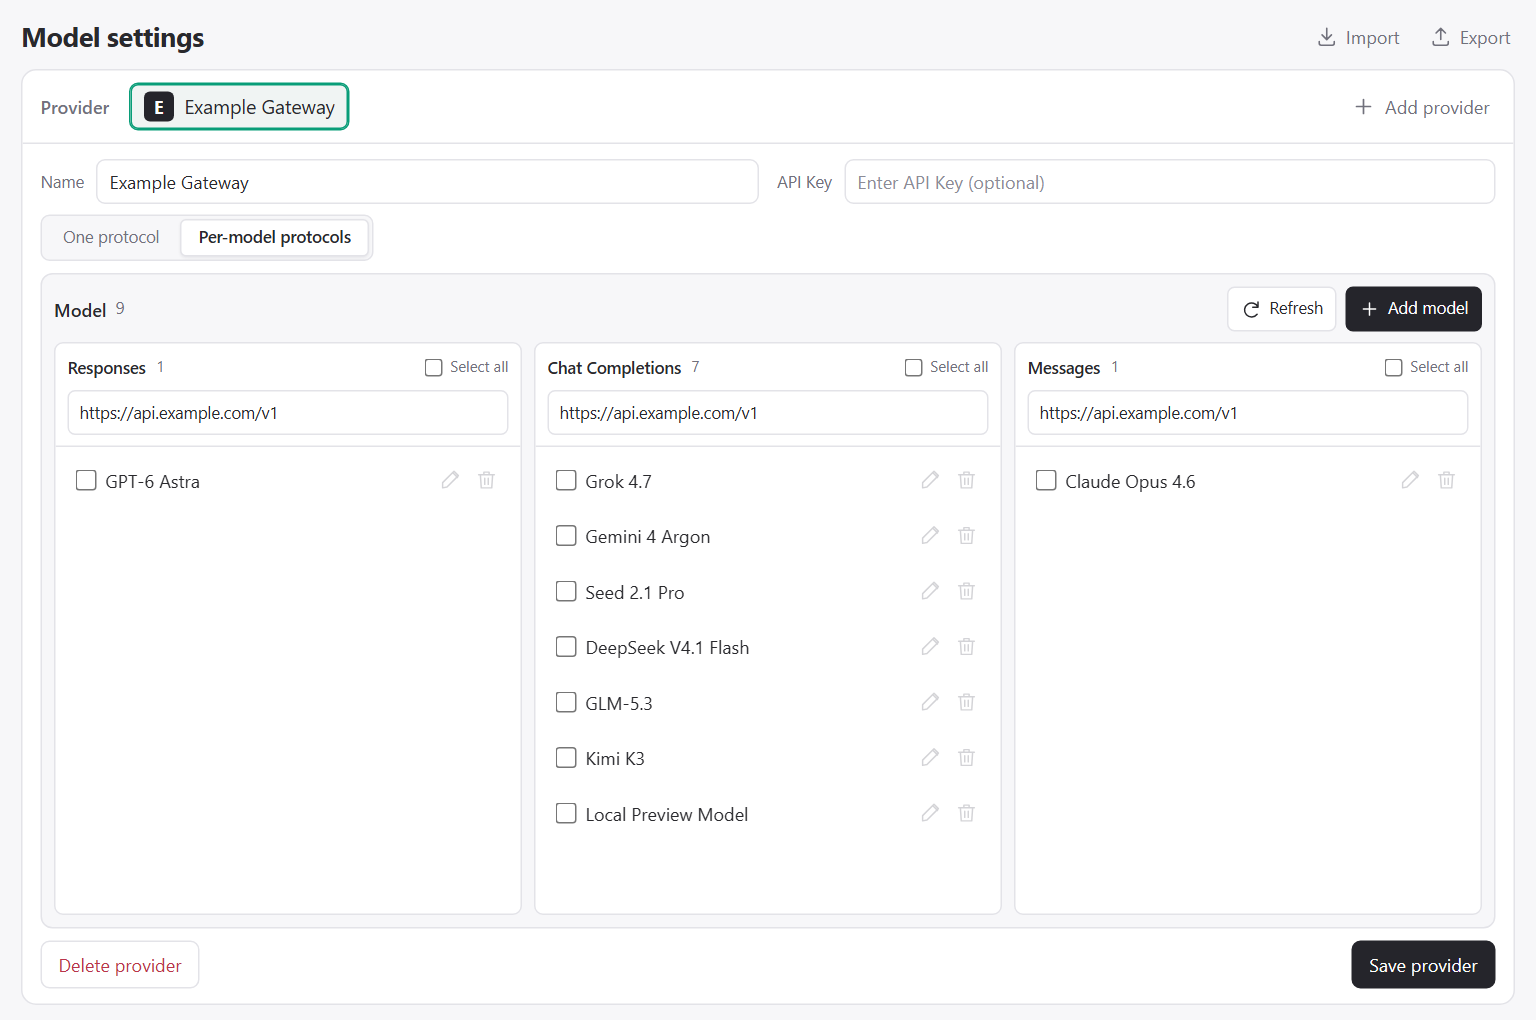
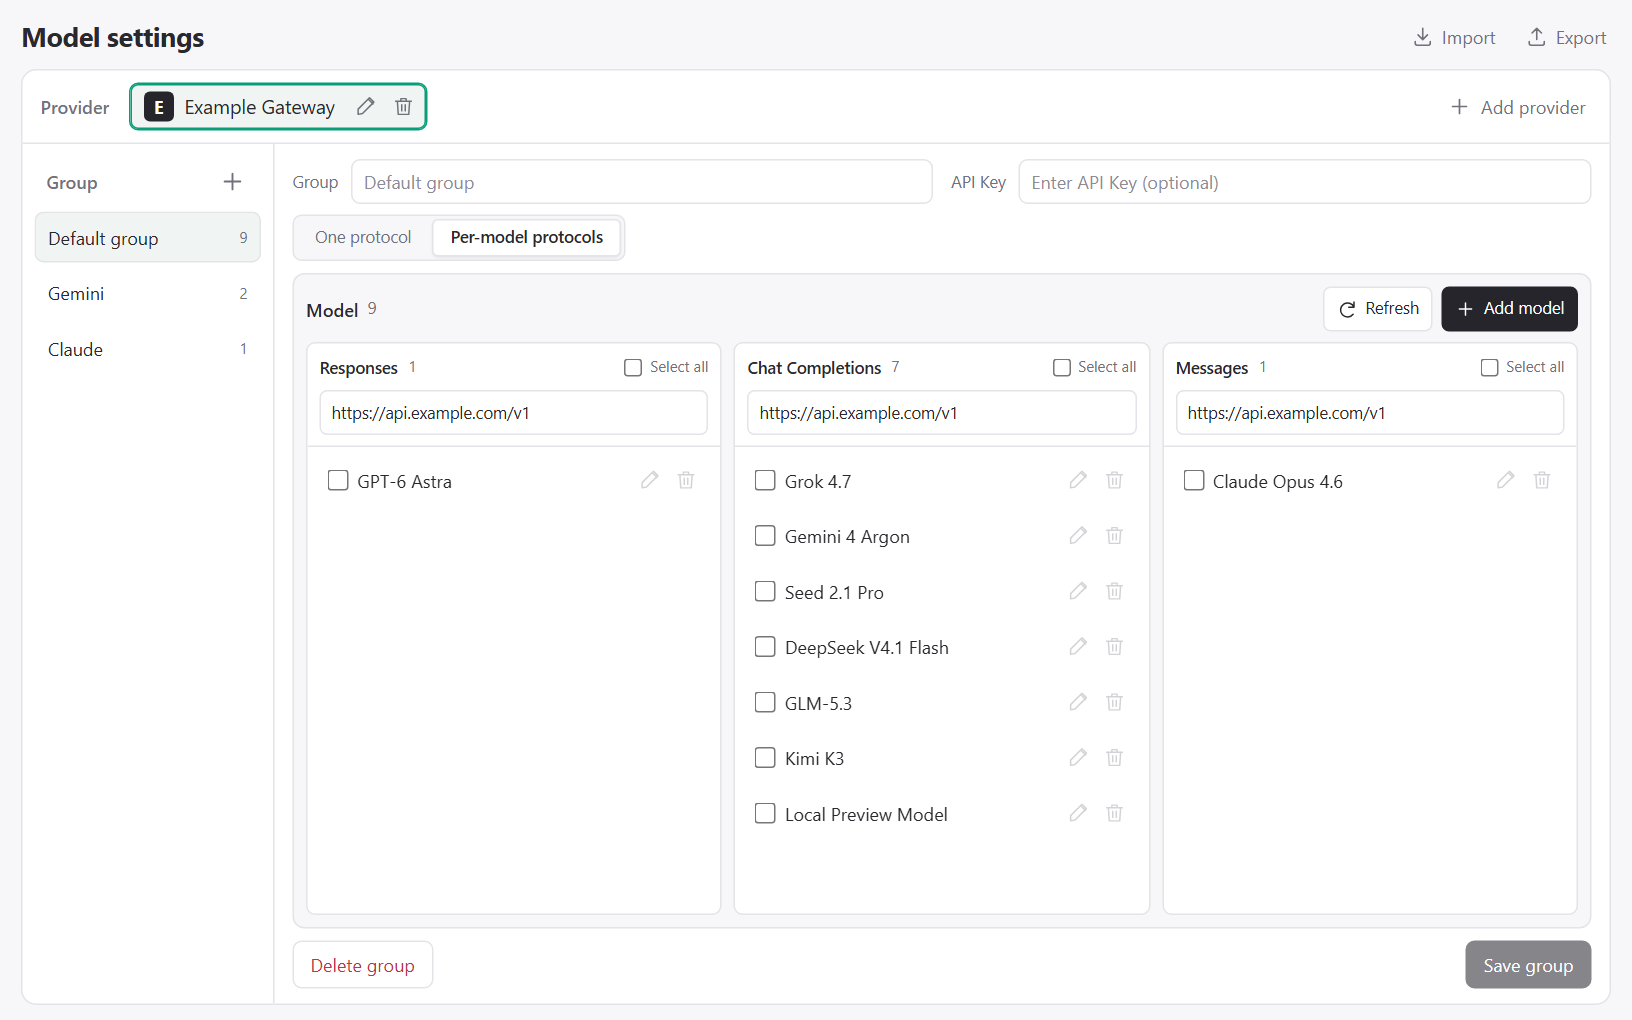
Release BYOK Studio 1.4.0
Reorganize bilingual READMEs and package descriptions, refresh high-DPI configuration screenshots, and bump version to 1.4.0.

diff --git a/README.md b/README.md
@@ -2,46 +2,45 @@
 
 English | [简体中文](README.zh-CN.md)
 
-A visual editor for Copilot's **Custom Endpoint** configuration in `chatLanguageModels.json`.
+A visual editor for Copilot's **Custom Endpoint** providers, key groups, and model presets in `chatLanguageModels.json`.
 
 ![Configuration page](docs/images/configuration-en.png)
 
 ## Configuration
 
-- Provider names, with an independent API key, endpoint URLs, and model list for each group.
-- **Chat Completions**, **Responses**, or **Messages** protocol settings, shared by all models or assigned per model.
-- Model lists, display names, Context, Output, capabilities, and reasoning defaults.
+- **Providers & key groups** — Organize multiple groups under one provider, each with its own API key, endpoint URLs, protocol mode, and model list.
+- **Protocol routing** — Configure **Chat Completions**, **Responses**, or **Messages**, either shared across a group or assigned per model.
+- **Model presets & parameters** — Sync presets online from [models.dev](https://models.dev) with local caching, and customize display names, Context, Output, capabilities, and reasoning levels in **Model settings** ([parameter sources and matching rules](docs/SOURCES.md)).
 
-Model presets are fetched online from [models.dev](https://models.dev) and cached locally by the extension. Adjust parameters in **Model settings**. [Parameter sources and matching rules](docs/SOURCES.md).
-
-Context and Output are written directly as `contextWindow` and `maxOutputTokens` in the official JSON. Saving a group removes its old `maxInputTokens`, `zeroDataRetentionEnabled`, and `statefulResponses` model fields. Groups outside that operation remain unchanged.
+Context and Output map directly to `contextWindow` and `maxOutputTokens` in `chatLanguageModels.json`. Saving a group strips retired `maxInputTokens`, `zeroDataRetentionEnabled`, and `statefulResponses` fields from that group while leaving other groups untouched.
 
 ## Usage
 
 Requires **VS Code 1.145+** and **GitHub Copilot Chat**.
 
-1. Run **BYOK Studio: Manage Models** from the Command Palette, or click the settings button at the bottom-right of Chat input.
-2. Add a provider, enter its URL and API key, and choose **One protocol** or **Per-model protocols**. **Add group** creates independent keys, URLs, and models under the same provider.
-3. Refresh or manually add models and adjust their settings.
-4. Click **Save group** to write the native configuration and refresh Copilot Chat's model list. Select the corresponding **Custom Endpoint** model in Copilot Chat.
+1. Click the settings icon at the bottom-right of the Chat input box, or run **BYOK Studio: Manage Models** from the Command Palette.
+2. Add a provider, use **Add group** (`+`) on the left when separating multiple API keys or endpoints, and choose **One protocol** or **Per-model protocols**.
+3. Click **Refresh** to discover models or **Add model** to configure one manually, then adjust model settings as needed.
+4. Click **Save group** (or press `Ctrl+S` / `Cmd+S`) to update `chatLanguageModels.json` and refresh Copilot Chat's model picker.
 
-Groups are created inline without a separate dialog. Switching providers or groups preserves unsaved drafts. Click the edit icon beside the active provider tab to rename it inline; Enter finishes editing and Esc cancels. Click **Save group** to apply the name change. Edit group names in the right-hand form. The tab's delete icon removes the entire provider after confirmation, including all its groups, models, saved API keys, and unsaved drafts; **Delete group** in the right-hand form removes only the current group.
+### Groups & native mapping
 
-The extension activates on command and reads `customendpoint` groups directly from `chatLanguageModels.json`. Starting VS Code, opening the panel, and reading configuration never write data. Only explicitly saving, importing, or deleting groups updates their corresponding official configuration groups.
+The extension activates on command and reads `customendpoint` entries directly from `chatLanguageModels.json`. Starting VS Code, opening the panel, or reading configuration never writes to disk; only explicit save, import, or delete actions modify the corresponding entries.
 
-Each Studio group becomes a native `customendpoint` group. Named groups appear as **Provider · Group**; the default group keeps the provider name. Renaming a provider or group changes native model identifiers, so VS Code treats the models as new and their selection, hidden, and pinned states must be restored. Renaming a provider updates all its groups together.
+Each Studio group maps to one native `customendpoint` group: the default group keeps the provider name, and named groups appear as **Provider · Group**. Use the edit and delete icons on the active provider tab to rename a provider inline or remove the provider with all its groups and saved keys; **Delete group** removes only the current group. Switching providers or groups preserves unsaved drafts, model selections, and scroll positions. Because renaming a provider or group changes native model IDs, VS Code treats renamed models as new entries (current selection, hidden, and pinned states need to be set again).
 
-**One protocol** mode uses a single protocol and URL for all models. **Per-model protocols** mode has no provider default: GPT / OpenAI models (including Codex) go to **Responses**, Claude models go to **Messages**, and other models go to **Chat Completions**. Change an individual model's **Request protocol**, or select models and move them to another protocol column. Switching modes preserves manual assignments.
+### Protocols & model management
 
-**Refresh** replaces the model list and resets protocol assignments using these model family rules. Matching IDs keep their names, token overrides, and reasoning settings; endpoint URLs and the API key are retained. Models follow discovery order. Failed refreshes leave the draft unchanged.
+- **One protocol** applies a single protocol and Base URL to every model in the group.
+- **Per-model protocols** routes GPT / OpenAI (including Codex) to **Responses**, Claude to **Messages**, and remaining models to **Chat Completions** by default. Reassign protocols individually in **Model settings**, or select models and move them across columns; switching modes preserves manual assignments.
+- **Refresh** replaces the group's model list in discovery order and resets protocol routing by model family while keeping custom names, token overrides, and reasoning settings for matching IDs. Failed refreshes leave the current draft intact.
+- Selecting models reveals batch **Delete** next to **Refresh** (with **Select all** on unified lists and protocol columns). Model deletions stay in the draft until the group is saved.
 
-Selecting models shows **Delete** immediately left of **Refresh**; deselecting all models hides it. **Select all** works on the unified list or an individual protocol column. Model deletion changes the draft until the group is saved. Completed saves show a green confirmation; failures show an error.
+### Import, export & official JSON
 
-**Save group** is enabled only when the current configuration is valid and has unsaved changes. Ctrl+S (Cmd+S on macOS) also saves. Duplicate submissions are blocked during saving, and failures retain the draft for retry. Switching groups preserves model selection and scroll position. Repeating the same save does not rewrite configuration or create another key reference.
-
-Use **Export** to select providers (all selected by default), then copy them to the clipboard or save a JSON file. Saved API keys are always included. **Import** reads from the clipboard or a JSON file and saves the selected providers; matching IDs or names update existing providers, and groups match by ID or provider-scoped name. Version 2 exports contain nested groups; version 1 exports and native configuration arrays remain supported. Close either dialog using its top-right close button or Esc. Transfer configurations between devices with manual import and export.
-
-Run **BYOK Studio: Open Official Model Configuration** to inspect the generated JSON. Official configuration uses protected key references; exported transfer JSON contains plaintext API keys. Native VS Code key updates replace key references. If a native operation removes Studio metadata, the group remains readable as a standalone provider; re-enter its API key in Studio and save if needed.
+- **Export** packages selected providers (all selected by default) with nested groups and saved plaintext API keys to the clipboard or a JSON file.
+- **Import** reads from the clipboard or a JSON file and updates matching providers and groups by ID or name. Version 2 bundles, legacy version 1 exports, and raw `customendpoint` arrays are all supported.
+- **BYOK Studio: Open Official Model Configuration** opens the underlying JSON, where credentials are stored as protected key references. If a native VS Code edit replaces a key reference or strips Studio metadata, the group remains readable as a standalone provider—re-enter its API key in Studio and save if needed.
 
 <details>
 <summary>Configuration example</summary>
@@ -49,25 +48,24 @@ Run **BYOK Studio: Open Official Model Configuration** to inspect the generated 
 ```json
 [
   {
-    "name": "Example Gateway",
+    "name": "Example Gateway · Gemini",
     "vendor": "customendpoint",
-    "byokStudioId": "demo-group",
+    "byokStudioId": "demo-group-gemini",
     "byokStudioProviderId": "demo-provider",
     "byokStudioProviderName": "Example Gateway",
-    "byokStudioGroupName": "",
+    "byokStudioGroupName": "Gemini",
     "models": [
       {
-        "id": "kimi-k3",
-        "name": "Kimi K3",
-        "url": "https://chat.example.com/v1/chat/completions",
+        "id": "gemini-4-argon",
+        "name": "Gemini 4 Argon",
+        "url": "https://api.example.com/v1/chat/completions",
         "apiType": "chat-completions",
         "toolCalling": true,
         "vision": true,
         "contextWindow": 1048576,
-        "maxOutputTokens": 131072,
+        "maxOutputTokens": 65536,
         "thinking": true,
-        "supportsReasoningEffort": ["low", "high", "max"],
-        "modelOptions": { "top_p": 0.95 }
+        "supportsReasoningEffort": ["low", "medium", "high"]
       }
     ]
   }
@@ -78,12 +76,12 @@ Run **BYOK Studio: Open Official Model Configuration** to inspect the generated 
 
 ## Development
 
-Run `node scripts/preview-ui.cjs` to preview the UI with data stored only in memory.
+Run `node scripts/preview-ui.cjs` to preview the UI with in-memory storage.
 
-- `src/` — extension and configuration logic
-- `resources/` — webview and shared modules
-- `scripts/` — local UI preview harness
-- `docs/` — screenshots and parameter sources
+- `src/` — extension host, JSONC persistence, discovery, and catalog sync
+- `resources/` — webview UI, localization, and shared routing logic
+- `scripts/` — local UI preview harness and service regression tests
+- `docs/` — screenshots and model parameter documentation
 
 ```powershell
 npm ci

diff --git a/README.zh-CN.md b/README.zh-CN.md
@@ -2,46 +2,45 @@
 
 [English](README.md) | 简体中文
 
-用于编辑 `chatLanguageModels.json` 中 Copilot **Custom Endpoint** 配置的可视化管理器。
+用于编辑 `chatLanguageModels.json` 中 Copilot **Custom Endpoint** 供应商、多密钥分组与模型预设的可视化管理器。
 
 ![配置页面](docs/images/configuration-zh-CN.png)
 
 ## 配置内容
 
-- 供应商名称，以及各分组独立的 API Key、端点地址和模型列表。
-- **Chat Completions**、**Responses** 或 **Messages** 协议配置，可统一设置或按模型分配。
-- 模型列表、显示名称、Context、Output、能力声明和推理档位。
+- **供应商与多分组** — 同一供应商下可创建多个分组，各自维护独立的 API Key、端点地址、协议模式和模型列表。
+- **协议路由** — 支持 **Chat Completions**、**Responses** 和 **Messages**，可按分组统一配置或按模型独立分配。
+- **模型预设与参数** — 在线同步 [models.dev](https://models.dev) 预设并在本地缓存，可在 **模型设置** 中调整显示名称、Context、Output、能力声明与推理档位（[参数来源与匹配规则](docs/SOURCES.md)）。
 
-模型预设在线同步自 [models.dev](https://models.dev) 并在本地缓存。在 **模型设置** 中调整参数。[参数来源与匹配规则](docs/SOURCES.md)。
-
-Context 和 Output 直接写入官方 JSON 的 `contextWindow` 和 `maxOutputTokens`。保存分组时会清除该分组旧模型中的 `maxInputTokens`、`zeroDataRetentionEnabled` 和 `statefulResponses`；未操作的分组保持不变。
+Context 和 Output 直接写入官方 JSON 的 `contextWindow` 和 `maxOutputTokens`。保存分组时会清理该分组旧模型中的 `maxInputTokens`、`zeroDataRetentionEnabled` 和 `statefulResponses`；未操作的分组保持不变。
 
 ## 使用
 
 需要 **VS Code 1.145+** 和 **GitHub Copilot Chat**。
 
-1. 在命令面板执行 **BYOK Studio: 管理模型**，或点击 Chat 输入框右下角的设置按钮。
-2. 添加供应商，填写地址、API Key，并选择 **统一协议** 或 **区分协议**。使用左侧 **添加分组** 可在同一供应商内配置独立的 Key、地址和模型。
-3. 刷新或手动添加模型，调整设置。
-4. 点击 **保存分组** 写入原生配置并刷新 Copilot Chat 的模型列表，然后选择对应的 **Custom Endpoint** 模型。
+1. 点击 Chat 输入框右下角的设置按钮，或在命令面板执行 **BYOK Studio: 管理模型**。
+2. 添加供应商；需要拆分多个 API Key 或端点地址时，点击左侧 **添加分组**（`+`），并选择 **统一协议** 或 **区分协议**。
+3. 点击 **刷新** 自动拉取模型或点击 **添加模型** 手动录入，按需调整模型参数。
+4. 点击 **保存分组**（或按 `Ctrl+S` / `Cmd+S`）写入 `chatLanguageModels.json` 并刷新 Copilot Chat 模型列表。
 
-分组直接在页面中创建，不弹出填写窗口；切换供应商或分组不会丢失未保存草稿。点击当前供应商标签旁的编辑图标，在标签内修改名称；Enter 完成编辑，Esc 取消，点击 **保存分组** 后生效。分组名称仍在右侧表单编辑。标签旁的删除图标用于删除整个供应商，确认后会同时删除其全部分组、模型、已保存的 API Key 和未保存草稿；右侧 **删除分组** 仅删除当前分组。
+### 分组与原生映射
 
-扩展按命令激活，直接读取 `chatLanguageModels.json` 中的 `customendpoint` 分组。启动 VS Code、打开面板或读取配置均不写入数据。只有显式保存、导入或删除分组时才修改对应分组的官方配置。
+扩展按命令激活，直接读取 `chatLanguageModels.json` 中的 `customendpoint` 分组。启动 VS Code、打开面板或读取配置均不写入磁盘；只有显式保存、导入或删除操作才会修改对应配置。
 
-每个 Studio 分组对应一个原生 `customendpoint` 分组。命名分组显示为 **供应商 · 分组**，默认分组沿用供应商名称。修改供应商或分组名称会改变原生模型标识；VS Code 会将模型视为新模型，需要重新设置当前选择、隐藏和固定状态。供应商重命名会同步更新其所有分组。
+每个 Studio 分组对应一个原生 `customendpoint` 分组：默认分组沿用供应商名称，命名分组显示为 **供应商 · 分组**。通过当前供应商标签旁的编辑与删除图标可内联重命名供应商，或连同其全部分组与已存密钥一并删除；右侧 **删除分组** 仅移除当前分组。切换供应商或分组会保留未保存草稿、模型勾选与滚动位置。由于重命名供应商或分组会改变原生模型标识，VS Code 会将其视为新模型，当前模型选择、隐藏与固定状态需重新设置。
 
-**统一协议** 模式下所有模型使用同一个协议和地址。**区分协议** 模式下没有供应商默认协议：GPT / OpenAI 系列（含 Codex）归入 **Responses**，Claude 归入 **Messages**，其余模型归入 **Chat Completions**。可在模型设置的 **请求协议** 中单独修改，或勾选模型后批量移动到其他协议列。切换模式会保留已有的手动分配。
+### 协议分配与模型管理
 
-**刷新** 会替换模型列表，并将协议分配重置为上述模型系列规则。同 ID 模型保留名称、Token 覆盖和推理设置；端点地址及 API Key 保持不变，模型按发现顺序排列。刷新失败不会改变草稿。
+- **统一协议** 下分组内所有模型共用同一协议与 Base URL。
+- **区分协议** 下默认按模型系列归类：GPT / OpenAI 系列（含 Codex）归入 **Responses**，Claude 归入 **Messages**，其余归入 **Chat Completions**。可在 **模型设置** 中单独调整，或勾选模型后批量移动到其他协议列；切换模式保留已有的手动分配。
+- **刷新** 按发现顺序替换当前分组的模型列表并按模型系列重置协议分配，同时保留同 ID 模型的自定义名称、Token 覆盖和推理设置；刷新失败不会改动草稿。
+- 勾选模型后，**刷新** 左侧出现批量 **删除**（支持统一列表或单协议列 **全选**），删除操作在保存分组后生效。
 
-勾选模型后，**刷新** 左侧显示 **删除**。取消全部勾选后隐藏；可使用统一列表或协议列的 **全选**。模型删除只修改草稿，保存分组后生效。保存完成后显示绿色提示，失败时显示错误。
+### 导入、导出与官方配置
 
-**保存分组** 仅在当前配置有效且有未保存修改时启用，也可使用 Ctrl+S（macOS 为 Cmd+S）。保存期间阻止重复提交，失败后保留草稿以便重试；切换分组保留模型勾选和滚动位置。重复保存相同配置不会再次写入或创建密钥引用。
-
-点击 **导出**，选择供应商（默认全选），复制到剪贴板或保存为 JSON 文件，始终包含已保存的 API Key。点击 **导入**，从剪贴板或 JSON 文件读取并选择供应商后保存；同 ID 或同名供应商会更新覆盖，分组按 ID 或供应商内名称匹配。版本 2 导出包含嵌套分组，同时兼容版本 1 导出和原生配置数组。两个弹窗均可通过右上角关闭按钮或 Esc 退出。跨设备迁移通过手动导入、导出完成。
-
-命令 **BYOK Studio: 打开官方模型配置** 可查看写入的 JSON。官方配置使用受保护的密钥引用；导出的迁移 JSON 包含明文 API Key。VS Code 原生的密钥更新会更换密钥引用；若原生操作移除了扩展元数据，分组仍可作为独立供应商读取，必要时在 Studio 中重新填写 API Key 并保存。
+- **导出** 按供应商打包（默认全选）嵌套分组与已保存的明文 API Key，可复制到剪贴板或保存为 JSON 文件。
+- **导入** 支持从剪贴板或 JSON 文件读取，按 ID 或名称匹配更新供应商与分组，兼容 v2 多分组导出、旧版 v1 导出及原生 `customendpoint` 数组。
+- 执行 **BYOK Studio: 打开官方模型配置** 可查看生成的 JSON（官方配置中仅写入受保护的密钥引用）。若在 VS Code 原生界面更新密钥或移除了扩展元数据，该分组仍可作为独立供应商读取，必要时在 Studio 中重新填写 API Key 保存即可。
 
 <details>
 <summary>配置示例</summary>
@@ -49,25 +48,24 @@ Context 和 Output 直接写入官方 JSON 的 `contextWindow` 和 `maxOutputTok
 ```json
 [
   {
-    "name": "Example Gateway",
+    "name": "Example Gateway · Gemini",
     "vendor": "customendpoint",
-    "byokStudioId": "demo-group",
+    "byokStudioId": "demo-group-gemini",
     "byokStudioProviderId": "demo-provider",
     "byokStudioProviderName": "Example Gateway",
-    "byokStudioGroupName": "",
+    "byokStudioGroupName": "Gemini",
     "models": [
       {
-        "id": "kimi-k3",
-        "name": "Kimi K3",
-        "url": "https://chat.example.com/v1/chat/completions",
+        "id": "gemini-4-argon",
+        "name": "Gemini 4 Argon",
+        "url": "https://api.example.com/v1/chat/completions",
         "apiType": "chat-completions",
         "toolCalling": true,
         "vision": true,
         "contextWindow": 1048576,
-        "maxOutputTokens": 131072,
+        "maxOutputTokens": 65536,
         "thinking": true,
-        "supportsReasoningEffort": ["low", "high", "max"],
-        "modelOptions": { "top_p": 0.95 }
+        "supportsReasoningEffort": ["low", "medium", "high"]
       }
     ]
   }
@@ -80,10 +78,10 @@ Context 和 Output 直接写入官方 JSON 的 `contextWindow` 和 `maxOutputTok
 
 运行 `node scripts/preview-ui.cjs` 可预览界面，数据仅保存在内存。
 
-- `src/` — 扩展与配置逻辑
-- `resources/` — 页面与共享模块
-- `scripts/` — 本地界面预览工具
-- `docs/` — 截图与参数来源
+- `src/` — 扩展宿主、JSONC 持久化、模型发现与目录同步
+- `resources/` — Webview 界面、本地化与共享路由逻辑
+- `scripts/` — 本地界面预览与服务层回归测试
+- `docs/` — 界面截图与参数来源说明
 
 ```powershell
 npm ci

diff --git a/docs/SOURCES.md b/docs/SOURCES.md
@@ -7,9 +7,9 @@ Model presets are fetched online at runtime from [models.dev](https://models.dev
 
 ## Online sync & caching
 
-When opening BYOK Studio or refreshing provider models, the extension loads its local cache (`models-catalog.json` in VS Code `globalStorageUri`) and refreshes from `https://models.dev/catalog.json` when the cache is missing or expired (6 hours on open, 15 minutes on manual model refresh). If `models.dev` is temporarily unreachable, the extension falls back to the cached snapshot or conservative default parameters so provider configuration continues to work offline.
+When opening BYOK Studio or refreshing group models, the extension loads its local cache (`models-catalog.json` in VS Code `globalStorageUri`) and refreshes from `https://models.dev/catalog.json` when the cache is missing or expired (6 hours on open, 15 minutes on manual model refresh). If `models.dev` is temporarily unreachable, the extension falls back to the cached snapshot or conservative default parameters so group configuration continues to work offline.
 
-Provider configurations live directly in `chatLanguageModels.json`, while API keys for model discovery and manual export are stored in VS Code's `SecretStorage`.
+Each group compiles to a `customendpoint` entry in `chatLanguageModels.json`, while per-group API keys for model discovery and manual export are stored in VS Code's `SecretStorage`.
 
 ## Filtering & conversion rules
 
